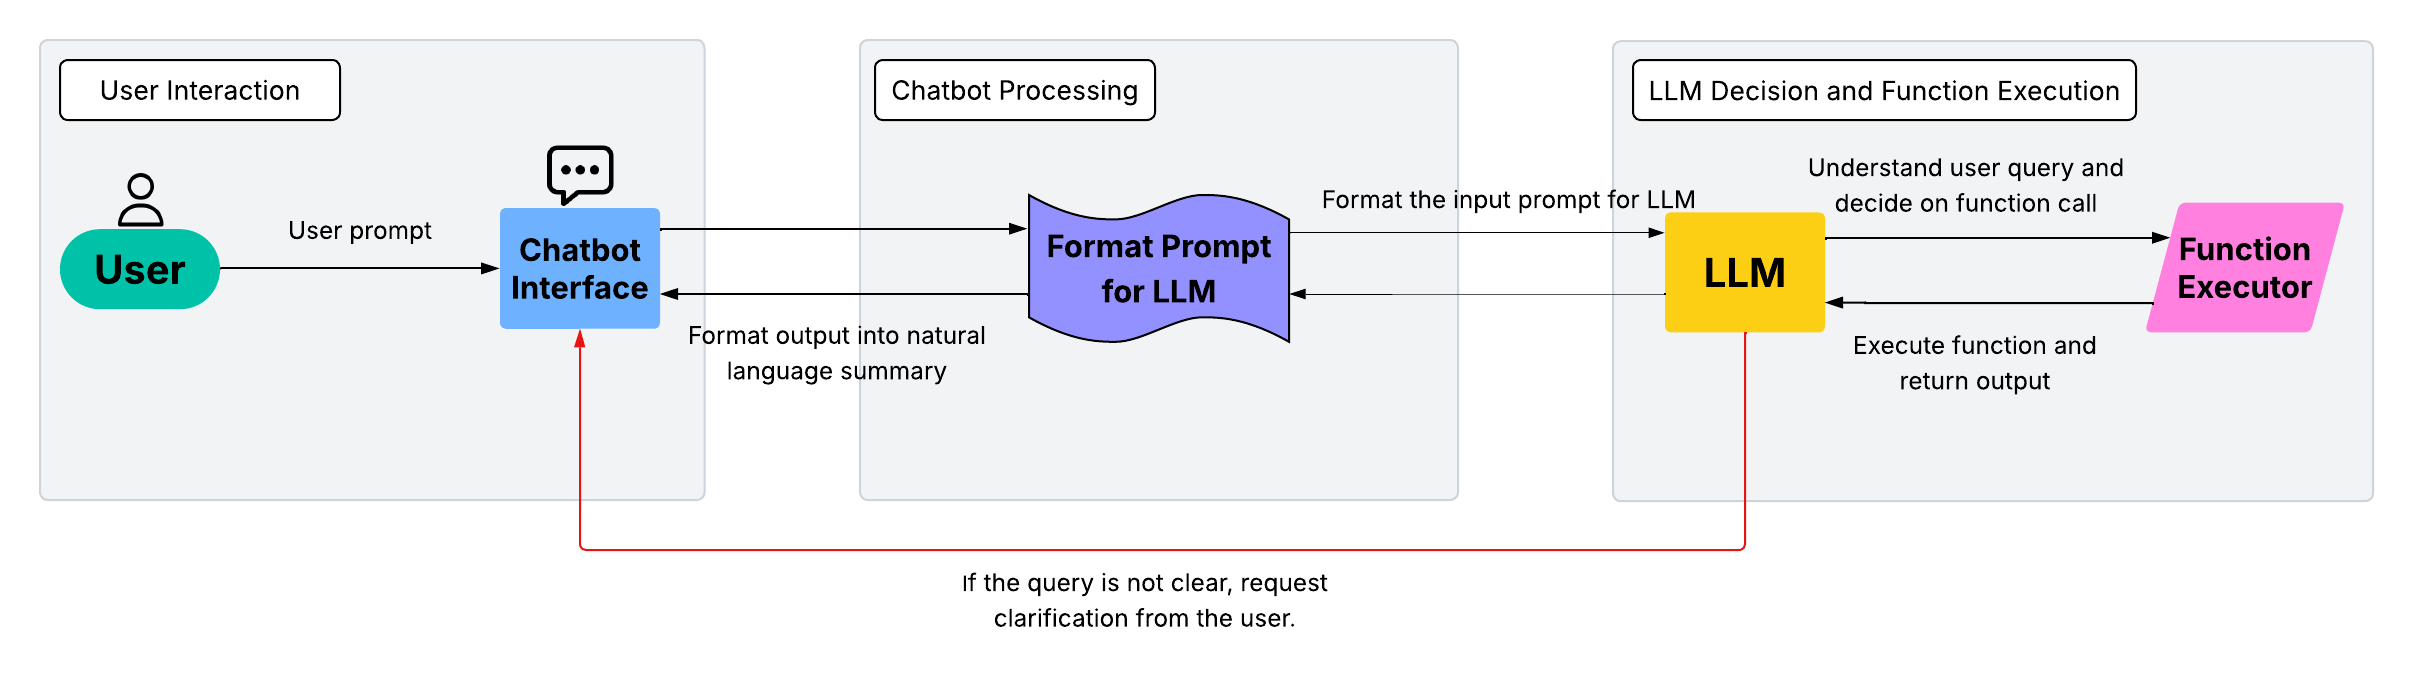
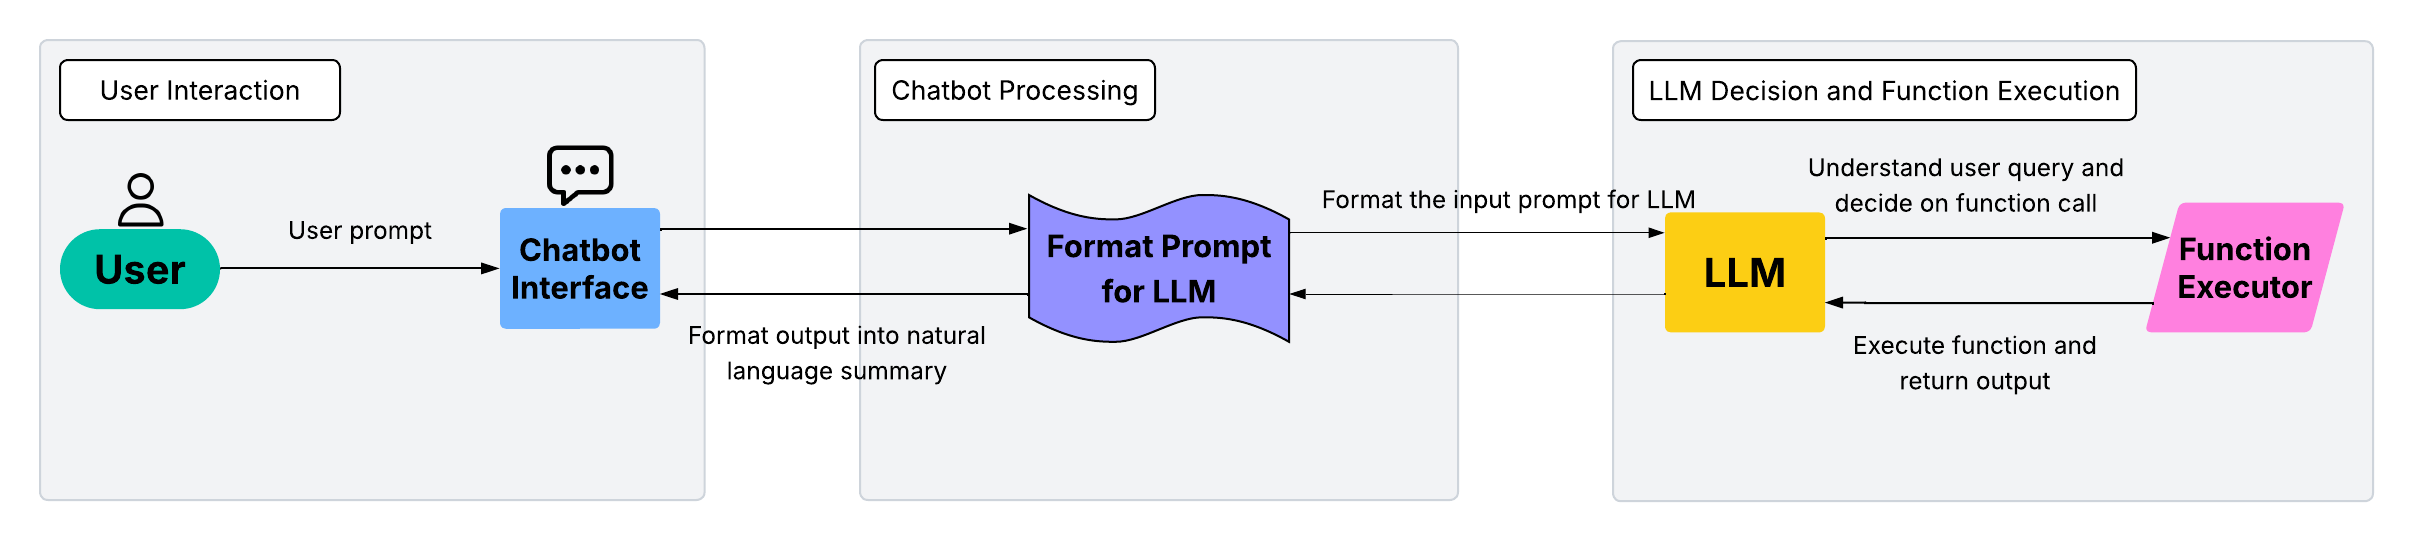
Edited the flowchart

diff --git a/README.md b/README.md
@@ -104,3 +104,6 @@ Watch the following demo of the chatbot in action, showing how it responds to us
 
 https://github.com/user-attachments/assets/1da91933-e7e3-4e82-bc6c-274ed31eff90
 
+
+## Contributors
+Sujung Choi and Rahul Dubey
